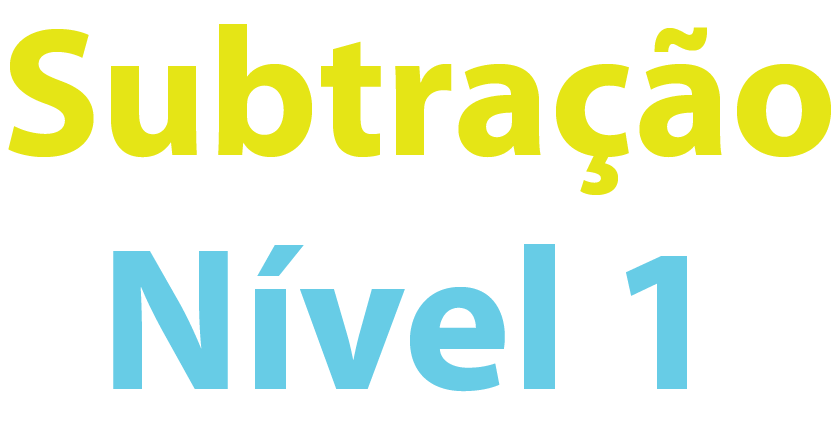
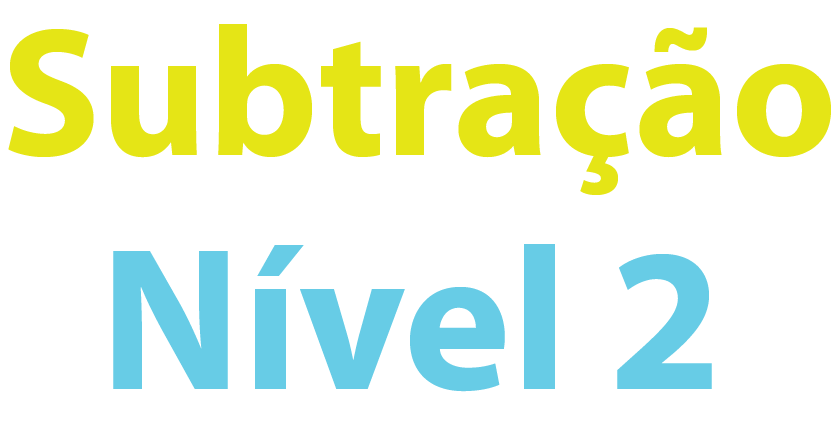
mudanca calculo e titulo

Changed region(s): [[0.7136, 0.5614, 0.8687, 0.8864]]

diff --git a/G-Kart/kart.js b/G-Kart/kart.js
@@ -1303,94 +1303,94 @@ window.addEventListener("resize", () => {
 
 var questions = [
   {
-    question: '7 - 2 =',
-    answer: 5,
-    options: [3, 4],
+    question: '22 - 10 =',
+    answer: 12,
+    options: [11, 14],
   },
   {
-    question: '10 - 3 =',
-    answer: 7,
-    options: [8, 5],
+    question: '31 - 15 =',
+    answer: 16,
+    options: [15, 18],
   },
   {
-    question: '8 - 4 =',
-    answer: 4,
-    options: [6, 5],
+    question: '34 - 13 =',
+    answer: 21,
+    options: [20, 23],
   },
   {
-    question: '12 - 9 =',
-    answer: 3,
+    question: '32 - 6 =',
+    answer: 26,
+    options: [22, 29],
+  },
+  {
+    question: '33 - 19 =',
+    answer: 14,
+    options: [15, 18],
+  },
+  {
+    question: '40 - 13 =',
+    answer: 27,
+    options: [22, 29],
+  },
+  {
+    question: '24 - 11 =',
+    answer: 13,
+    options: [10, 15],
+  },
+  {
+    question: '33 - 17 =',
+    answer: 16,
+    options: [15, 19],
+  },
+  {
+    question: '36 - 14 =',
+    answer: 22,
+    options: [20, 25],
+  },
+  {
+    question: '34 - 7 =',
+    answer: 27,
+    options: [23, 28],
+  },
+  {
+    question: '35 - 20 =',
+    answer: 15,
+    options: [17, 13],
+  },
+  {
+    question: '42 - 14 =',
+    answer: 28,
+    options: [26, 29],
+  },
+  {
+    question: '26 - 12 =',
+    answer: 14,
+    options: [11, 16],
+  },
+  {
+    question: '35 - 18 =',
+    answer: 17,
+    options: [19, 21],
+  },
+  {
+    question: '38 - 23 =',
+    answer: 15,
+    options: [13, 17],
+  },
+  {
+    question: '36 - 28 =',
+    answer: 8,
     options: [5, 7],
   },
   {
-    question: '11 - 6 =',
-    answer: 5,
-    options: [7, 4],
+    question: '35 - 15 =',
+    answer: 20,
+    options: [18, 23],
   },
   {
-    question: '13 - 5 =',
-    answer: 8,
-    options: [9, 6],
-  },
-  {
-    question: '9 - 3 =',
-    answer: 6,
-    options: [7, 9],
-  },
-  {
-    question: '12 - 4 =',
-    answer: 8,
-    options: [7, 9],
-  },
-  {
-    question: '10 - 5 =',
-    answer: 5,
-    options: [7, 9],
-  },
-  {
-    question: '14 - 4 =',
-    answer: 10,
-    options: [11, 9],
-  },
-  {
-    question: '13 - 6 =',
-    answer: 7,
-    options: [9, 5],
-  },
-  {
-    question: '15 - 9 =',
-    answer: 6,
-    options: [7, 8],
-  },
-  {
-    question: '11 - 7 =',
-    answer: 4,
-    options: [5, 7],
-  },
-  {
-    question: '15 - 5 =',
-    answer: 10,
-    options: [11, 9],
-  },
-  {
-    question: '12 - 6 =',
-    answer: 6,
-    options: [9, 4],
-  },
-  {
-    question: '16 - 11 =',
-    answer: 5,
-    options: [8, 7],
-  },
-  {
-    question: '15 - 8 =',
-    answer: 7,
-    options: [10, 6],
-  },
-  {
-    question: '17 - 10 =',
-    answer: 7,
-    options: [5, 9],
+    question: '40 - 27 =',
+    answer: 13,
+    options: [10, 15],
   },
 ];
 // for (var i = 1; i <= 10; i++) {

diff --git a/index.html b/index.html
@@ -5,7 +5,7 @@
 
   <meta charset="UTF-8">
   <meta name="viewport" content="width=device-width, initial-scale=1.0">
-  <title>Subtração nível 1</title>
+  <title>Subtração nível 2</title>
   <!-- Chrome, Firefox OS and Opera -->
   <meta name="theme-color" content="rgba(117, 192, 67, 0.95)">
   <!-- Windows Phone -->
